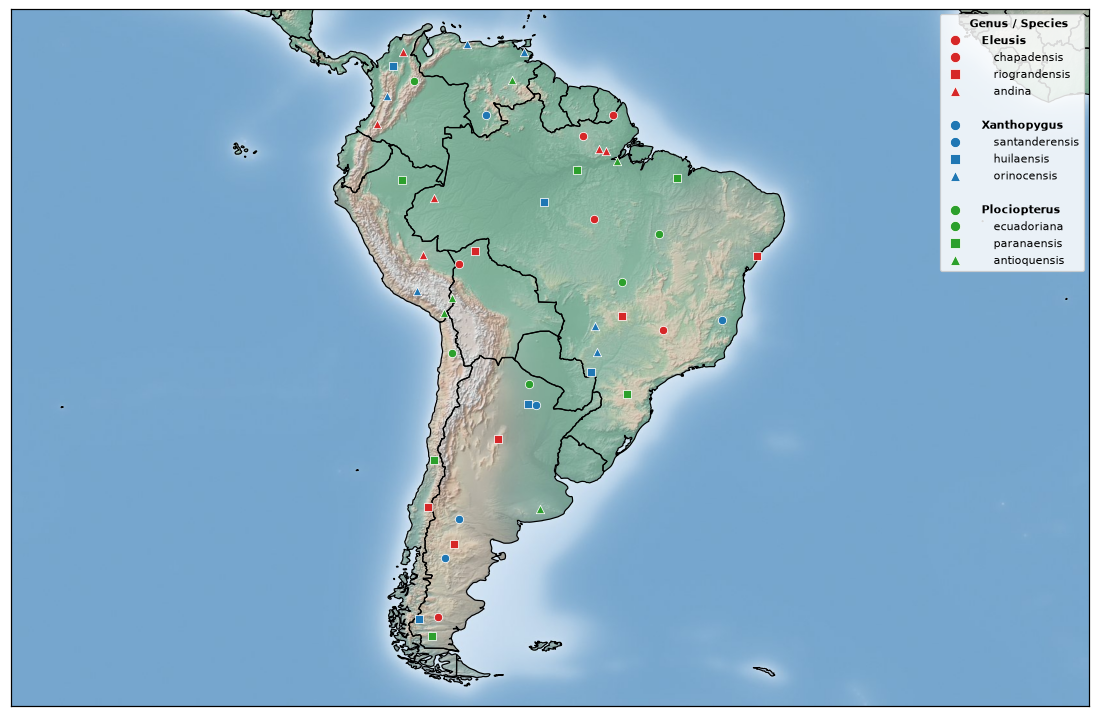
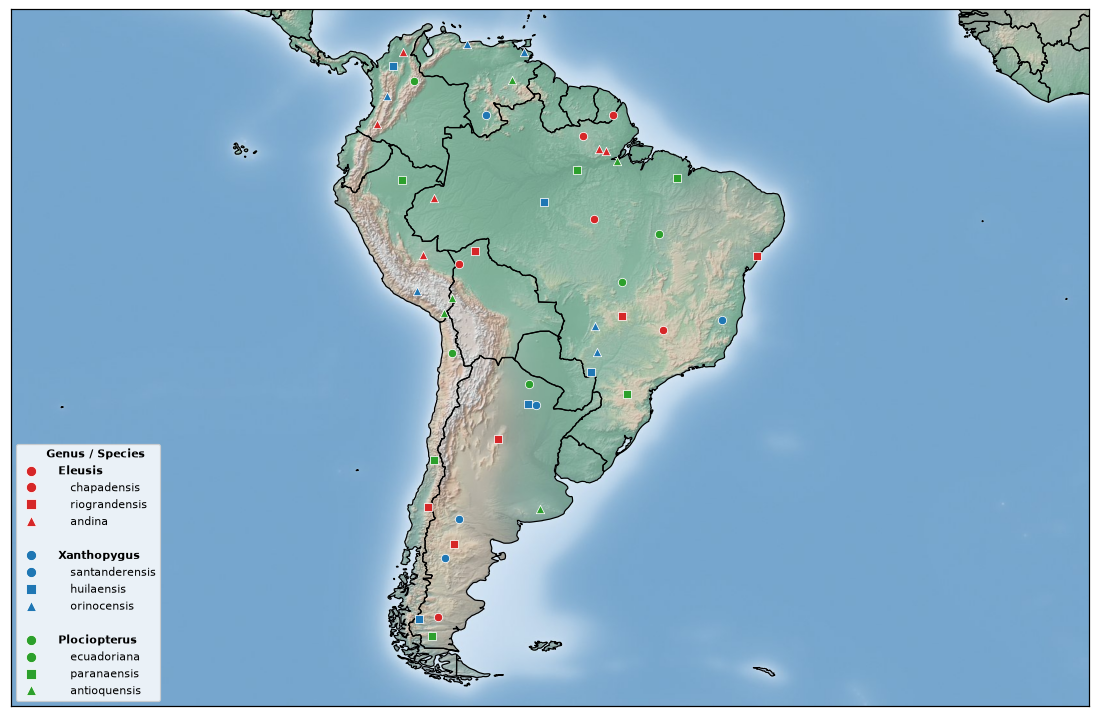
Move the South America screenshot legends off the land
Landscape scenes put the legend in the lower left over the Pacific. The
portrait scenes widen the frame westward so the same corner has open
water, and the publication render uses a page-sized figure so its legend
fits there. The app's publication screenshot stays landscape for the
same reason.

Changed region(s): [[0.8345, 0.0, 0.9891, 0.4], [0.0, 0.6154, 0.1545, 0.9846]]

diff --git a/scripts/make_app_screenshot.py b/scripts/make_app_screenshot.py
@@ -27,6 +27,10 @@ from pymappr.geo.layers import LayerStore  # noqa: E402
 
 OUT_DIR = REPO_ROOT / "docs" / "images"
 
+# The portrait frame make_screenshots.py uses: South America widened into the
+# Pacific so a lower-left legend covers no land or points.
+PORTRAIT_SOUTH_AMERICA = (-105, -33, -60, 40)
+
 
 def new_root(geometry: str) -> tk.Tk:
     """A Tk root in the app's light theme, as ``pymappr.app.main`` sets up."""
@@ -55,6 +59,20 @@ def select_tab(panel, title: str) -> None:
             panel.notebook.select(index)
             return
     raise SystemExit(f"no {title!r} tab in the control panel")
+
+
+def set_legend_location(app: PyMapprApp, location: str) -> None:
+    """Pick a legend position from the Legend tab's Position box."""
+    app.panel.legend_vars["location"].set(location)
+    app.on_legend_position()
+
+
+def zoom_to(app: PyMapprApp, extent: tuple) -> None:
+    """Frame the map on a (lon0, lon1, lat0, lat1) box, as zooming or
+    panning there would; the Limit to presets cannot reach it."""
+    app.renderer.set_extent(extent)
+    app.toolbar.update()
+    app.renderer.redraw()
 
 
 def grab_window(root: tk.Tk, path: Path) -> None:
@@ -88,7 +106,8 @@ def shot_main_and_layers(store: LayerStore) -> None:
     app = PyMapprApp(root, store, restore_session=False)
     root.update()
 
-    # 1. Grouped points with a legend, states + blue water (Data tab).
+    # 1. Grouped points with a legend, states + blue water (Data tab). The
+    #    legend goes lower left, over the Pacific; upper right covers Africa.
     load_sample(app, "south_america_beetles.csv", group_by="Genus")
     app.panel.continent_var.set("South America")
     app.on_continent()
@@ -96,13 +115,16 @@ def shot_main_and_layers(store: LayerStore) -> None:
     app.on_basemap()
     app.panel.layer_vars["states"].set(True)
     app.on_layer("states")
+    set_legend_location(app, "lower left")
     app.canvas.draw()
     grab_window(root, OUT_DIR / "app_points.png")
 
     # 2. The same beetles, but in the new Portrait orientation - the map is
-    #    reframed as a tall page instead of a wide band of ocean.
+    #    reframed as a tall page instead of a wide band of ocean, widened
+    #    west so the legend still has open water.
     app.panel.orientation_var.set("Portrait")
     app.on_orientation()
+    zoom_to(app, PORTRAIT_SOUTH_AMERICA)
     app.canvas.draw()
     grab_window(root, OUT_DIR / "app_portrait.png")
 
@@ -133,7 +155,11 @@ def shot_main_and_layers(store: LayerStore) -> None:
 
 def shot_publication(store: LayerStore) -> None:
     """Genus and Species joined into one legend line, in the publication
-    style: the Combine columns dialog, then the map it gives."""
+    style: the Combine columns dialog, then the map it gives.
+
+    The map stays landscape: in a portrait box the size of the app's canvas
+    the nine-row publication legend is half the map wide, and no frame that
+    keeps the continent large leaves that much open water."""
     root = new_root("1500x950+0+0")
     app = PyMapprApp(root, store, restore_session=False)
     root.update()
@@ -141,8 +167,6 @@ def shot_publication(store: LayerStore) -> None:
     load_sample(app, "south_america_beetles.csv", group_by="Genus")
     app.panel.continent_var.set("South America")
     app.on_continent()
-    app.panel.orientation_var.set("Portrait")
-    app.on_orientation()
     app.panel.basemap_var.set("relief")
     app.on_basemap()
 
@@ -157,6 +181,8 @@ def shot_publication(store: LayerStore) -> None:
     root.after(500, grab_and_accept)
     app.on_combine_columns()
     app.on_publication_style()
+    # After the style, so nothing it applies can move the legend back.
+    set_legend_location(app, "lower left")
     select_tab(app.panel, "Data")
     app.canvas.draw()
     grab_window(root, OUT_DIR / "app_publication.png")

diff --git a/scripts/make_screenshots.py b/scripts/make_screenshots.py
@@ -40,9 +40,17 @@ from pymappr.styling.styles import (  # noqa: E402
 DPI = 110
 SAMPLES = REPO_ROOT / "sample_data"
 
+# A tall frame around South America has no open water big enough for a
+# legend, so the portrait scenes widen it westward and start it at 60 S: the
+# legend then sits in the lower left over empty Pacific, clear of the Chilean
+# coast, the Juan Fernandez islands and Antarctica. The extra height goes to
+# the north, where nothing is drawn over it.
+PORTRAIT_SOUTH_AMERICA = (-105, -33, -60, 40)
 
-def new_renderer(store: LayerStore) -> MapRenderer:
-    return MapRenderer(Figure(figsize=(10, 6.5)), store)
+
+def new_renderer(store: LayerStore,
+                 figsize: tuple[float, float] = (10, 6.5)) -> MapRenderer:
+    return MapRenderer(Figure(figsize=figsize), store)
 
 
 def sample(name: str, **styling) -> DatasetEntry:
@@ -70,38 +78,44 @@ def readme_scenes(store: LayerStore) -> dict:
     scenes = {}
 
     # Portrait orientation: beetles coloured by genus, shaped by species,
-    # framed as a tall page and cropped to it.
+    # framed as a tall page and cropped to it. The orientation goes first so
+    # the extent is fitted to the tall box rather than cropped into it.
     r = new_renderer(store)
     r.set_basemap("blue_marble")
     r.set_layer("countries", True)
-    r.set_extent("South America")
     r.set_orientation("portrait")
-    show_points(r, beetles, location="upper right", fontsize=7)
+    r.set_extent(PORTRAIT_SOUTH_AMERICA)
+    show_points(r, beetles, location="lower left", fontsize=7)
     scenes["beetles_portrait.png"] = (r, True)
 
-    # The same map in landscape, for the orientation comparison.
+    # The same map in landscape, for the orientation comparison. The wide
+    # frame has Pacific to spare in the lower left; the upper right would
+    # cover West Africa.
     r = new_renderer(store)
     r.set_basemap("blue_marble")
     r.set_layer("countries", True)
     r.set_extent("South America")
-    show_points(r, beetles, location="upper right", fontsize=7)
+    show_points(r, beetles, location="lower left", fontsize=7)
     scenes["beetles_landscape.png"] = (r, False)
 
     # The publication style: Genus and Species combined into one legend
     # line, black & white outlined markers in varied shapes, and a plain
     # boxed legend with italic names. Shading by genus and sorting A-Z make
-    # each genus a block of rows in one shade, its shapes restarting.
+    # each genus a block of rows in one shade, its shapes restarting. The
+    # figure is page-sized rather than window-sized, so the 9 pt legend
+    # takes the share of the map it would in print and fits over the
+    # Pacific.
     dataset, label = combine_name_columns(beetles.dataset,
                                           ["Genus", "Species"])
-    r = new_renderer(store)
+    r = new_renderer(store, figsize=(13, 9))
     r.set_layer("countries", True)
-    r.set_extent("South America")
     r.set_orientation("portrait")
+    r.set_extent(PORTRAIT_SOUTH_AMERICA)
     r.set_point_edge(*PUBLICATION_POINT_EDGE)
     show_points(r, DatasetEntry(dataset=dataset, name=beetles.name,
                                 group_by=label, color_by="Genus",
                                 vary_symbols=True),
-                BLACK_AND_WHITE, location="lower right", order="az",
+                BLACK_AND_WHITE, location="lower left", order="az",
                 **PUBLICATION_LEGEND)
     scenes["publication_style.png"] = (r, True)
 
